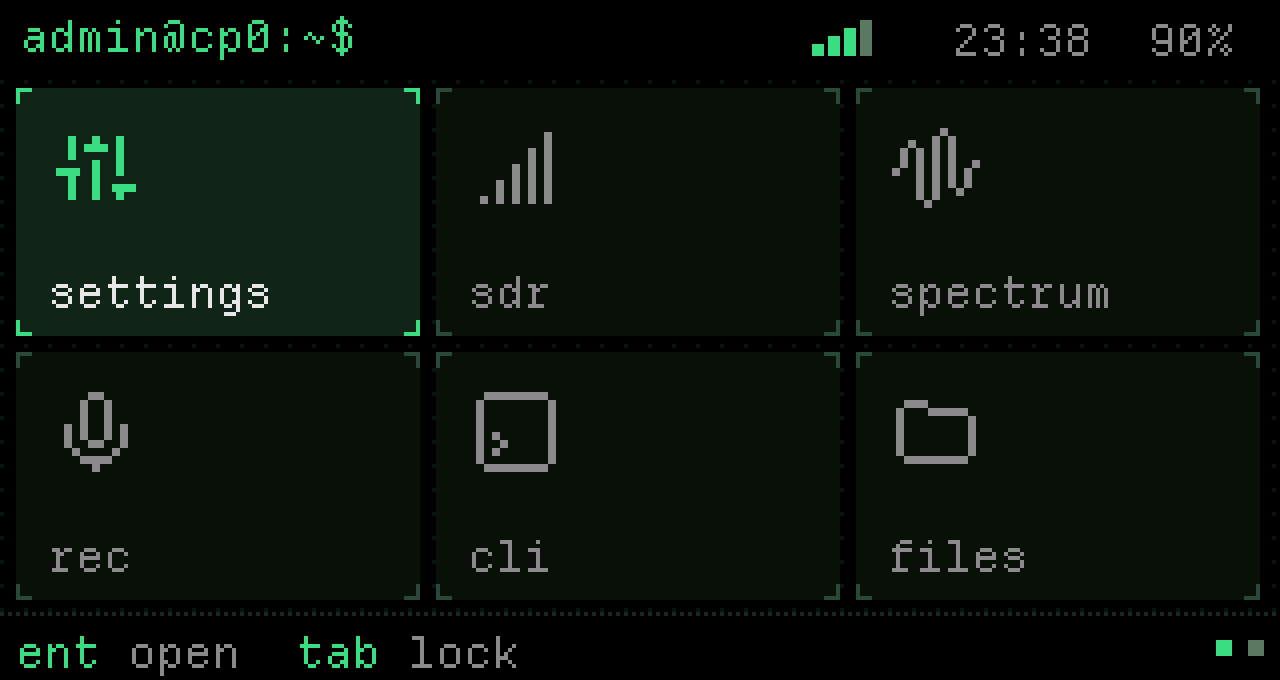
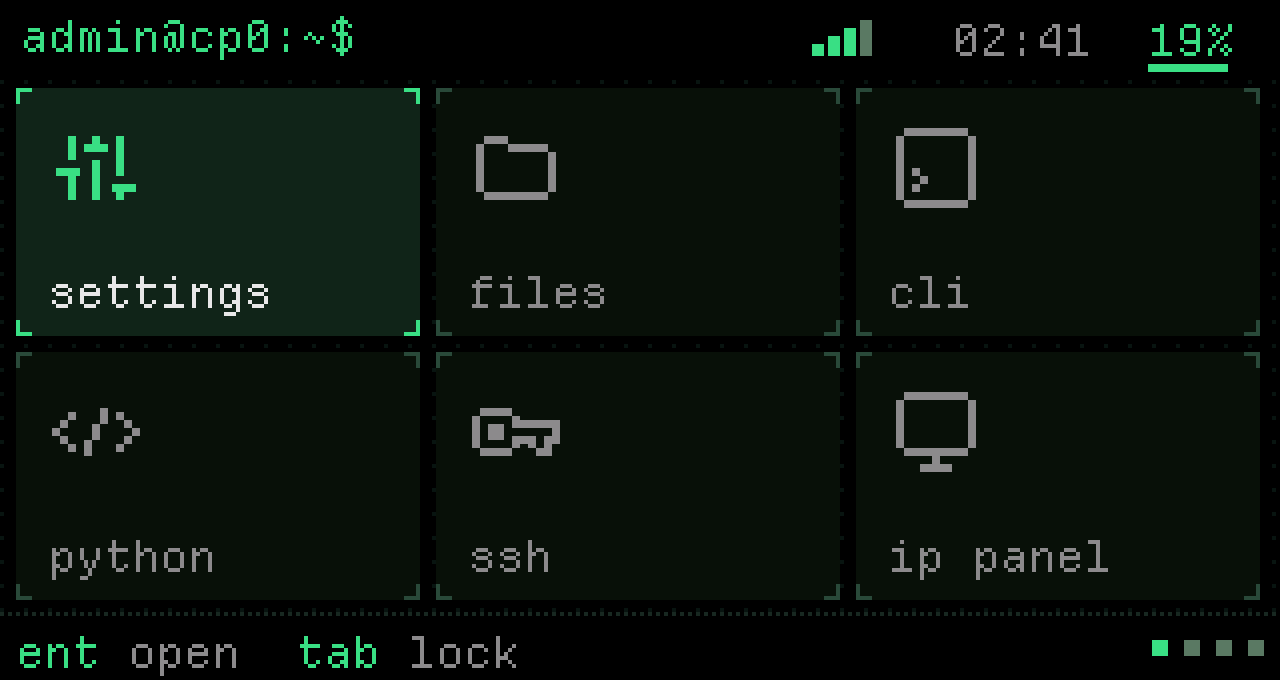
Regroup the README by app type
The app list and screenshots follow the same four groups as the home
screen, with fresh renders of the four home pages and of Slime in
colour.

diff --git a/README.md b/README.md
@@ -8,39 +8,64 @@ and a small set of built-in apps sharing one theme. Forked from
 
 ## Apps
 
+The home screen groups the apps by type, one type per page.
+
+| | |
+|---|---|
+| <img src="docs/screenshots/home.png" width="400"><br>Home: system | <img src="docs/screenshots/home-2.png" width="400"><br>Home: radio |
+| <img src="docs/screenshots/home-3.png" width="400"><br>Home: hardware, network and play | <img src="docs/screenshots/home-4.png" width="400"><br>Home: sound |
+
+### System
+
+- **Settings**, **CLI**, **Python**, **SSH**, **IP Panel**.
 - **Files**: browse, preview text, rename, copy/move, delete, new folders; `e` opens a file in micro.
-- **Spectrum**: sub-GHz scanner and recorder on the CC1101 radio. RX watches the 315, 433 and 868 MHz bands with per-channel level bars and auto-captures any signal over the trigger to `~/spectrum` as Flipper `.sub` and rtl_433 `.ook` files; TX lists the captures and replays one on its own frequency.
+
+| | |
+|---|---|
+| <img src="docs/screenshots/files.png" width="400"><br>Files | <img src="docs/screenshots/files-preview.png" width="400"><br>Files: preview |
+| <img src="docs/screenshots/settings.png" width="400"><br>Settings | <img src="docs/screenshots/settings-battery.png" width="400"><br>Settings: battery |
+| <img src="docs/screenshots/lockscreen.png" width="400"><br>Lock screen |  |
+
+### Radio
+
 - **SDR**: RTL-SDR scope and waterfall with in-app WFM/NFM/AM demodulation to the speaker.
-- **Rec**: voice recorder with on-device transcription (whisper.cpp).
-- **Audio**: live microphone spectrum and pitch readout.
 - **ADSB**: aircraft scope and flight list decoded from `rtl_adsb` on 1090 MHz. Range and bearing use the position in `~/.config/cp0/location` (one line, `lat,lon`).
 - **Sat**: pass predictor and sky plot from Celestrak TLEs, for the ISS and Meteor-M by default and anything named in `~/sat/watch.txt`; records a pass as FM audio with `rtl_fm`. The orbit model is a simplified one, not SGP4.
 - **Sensors**: dashboard of the 433 and 868 MHz temperature and humidity sensors that `rtl_433` decodes.
+- **Spectrum**: sub-GHz scanner and recorder on the CC1101 radio. RX watches the 315, 433 and 868 MHz bands with per-channel level bars and auto-captures any signal over the trigger to `~/spectrum` as Flipper `.sub` and rtl_433 `.ook` files; TX lists the captures and replays one on its own frequency.
 - **Keys**: looks inside the captures Spectrum saves: waveform, pulse-width decode to bits and hex, replay.
+
+| | |
+|---|---|
+| <img src="docs/screenshots/sdr.png" width="400"><br>SDR: scope and waterfall around 433.92 MHz | <img src="docs/screenshots/adsb.png" width="400"><br>ADSB: scope and flight list |
+| <img src="docs/screenshots/sat.png" width="400"><br>Sat: next passes and sky plot | <img src="docs/screenshots/sensors.png" width="400"><br>Sensors |
+| <img src="docs/screenshots/spectrum.png" width="400"><br>Spectrum: CC1101 RX | <img src="docs/screenshots/keys.png" width="400"><br>Keys: decoded capture |
+
+### Hardware, network and play
+
 - **Fox**: transmitter hunting on one frequency with a live RSSI meter, peak hold, history strip and a beep that speeds up with the signal.
 - **IR**: learns an infrared remote button by button (NEC decode, raw timings otherwise) and replays it; four remotes of eight buttons.
 - **Pins**: I2C bus scanner that only reads and skips addresses a kernel driver owns, and a GPIO logic view with I2C decode.
 - **Tailnet**: Tailscale peers with status, path and ping; `s` opens SSH to a peer, `e` sets an exit node.
 - **Air**: 2.4 and 5 GHz Wi-Fi channel map with a network list, and nearby Bluetooth devices.
-- **Slime**: Physarum slime-mould simulation with six species.
-- **Tracker**: four-channel chiptune tracker (two squares, wave, noise) with song save and WAV export.
-- **Settings**, **CLI**, **Python**, **SSH**, **IP Panel**.
+- **Slime**: Physarum slime-mould simulation with six species and eight colour palettes, seven of them from the PHOSPHN Game Boy Advance ROM.
 
 | | |
 |---|---|
-| <img src="docs/screenshots/home.png" width="400"><br>Home | <img src="docs/screenshots/home-2.png" width="400"><br>Home, page 2 |
-| <img src="docs/screenshots/files.png" width="400"><br>Files | <img src="docs/screenshots/files-preview.png" width="400"><br>Files: preview |
-| <img src="docs/screenshots/spectrum.png" width="400"><br>Spectrum: CC1101 RX | <img src="docs/screenshots/sdr.png" width="400"><br>SDR: scope and waterfall around 433.92 MHz |
-| <img src="docs/screenshots/rec.png" width="400"><br>Rec: recordings with transcripts | <img src="docs/screenshots/rec-clip.png" width="400"><br>Rec: clip |
-| <img src="docs/screenshots/audio.png" width="400"><br>Audio | <img src="docs/screenshots/lockscreen.png" width="400"><br>Lock screen |
-| <img src="docs/screenshots/settings.png" width="400"><br>Settings | <img src="docs/screenshots/settings-battery.png" width="400"><br>Settings: battery |
-| <img src="docs/screenshots/home-3.png" width="400"><br>Home, page 3 | <img src="docs/screenshots/home-4.png" width="400"><br>Home, page 4 |
-| <img src="docs/screenshots/adsb.png" width="400"><br>ADSB: scope and flight list | <img src="docs/screenshots/sat.png" width="400"><br>Sat: next passes and sky plot |
-| <img src="docs/screenshots/sensors.png" width="400"><br>Sensors | <img src="docs/screenshots/keys.png" width="400"><br>Keys: decoded capture |
 | <img src="docs/screenshots/fox.png" width="400"><br>Fox | <img src="docs/screenshots/ir.png" width="400"><br>IR: learned remote |
 | <img src="docs/screenshots/pins.png" width="400"><br>Pins: I2C scan | <img src="docs/screenshots/tailnet.png" width="400"><br>Tailnet |
-| <img src="docs/screenshots/air.png" width="400"><br>Air: Wi-Fi channel map | <img src="docs/screenshots/slime.png" width="400"><br>Slime |
-| <img src="docs/screenshots/tracker.png" width="400"><br>Tracker | |
+| <img src="docs/screenshots/air.png" width="400"><br>Air: Wi-Fi channel map | <img src="docs/screenshots/slime.png" width="400"><br>Slime: bioluminescence palette |
+
+### Sound
+
+- **Rec**: voice recorder with on-device transcription (whisper.cpp).
+- **Audio**: live microphone spectrum and pitch readout.
+- **Tracker**: four-channel chiptune tracker (two squares, wave, noise) with song save and WAV export.
+
+| | |
+|---|---|
+| <img src="docs/screenshots/rec.png" width="400"><br>Rec: recordings with transcripts | <img src="docs/screenshots/rec-clip.png" width="400"><br>Rec: clip |
+| <img src="docs/screenshots/audio.png" width="400"><br>Audio | <img src="docs/screenshots/tracker.png" width="400"><br>Tracker |
 
 Images are the device's 320x170 framebuffer drawn at 4x; the UI font is the pixel font
 DepartureMono, so the enlargement is exact. Network name and address on the lock screen,
